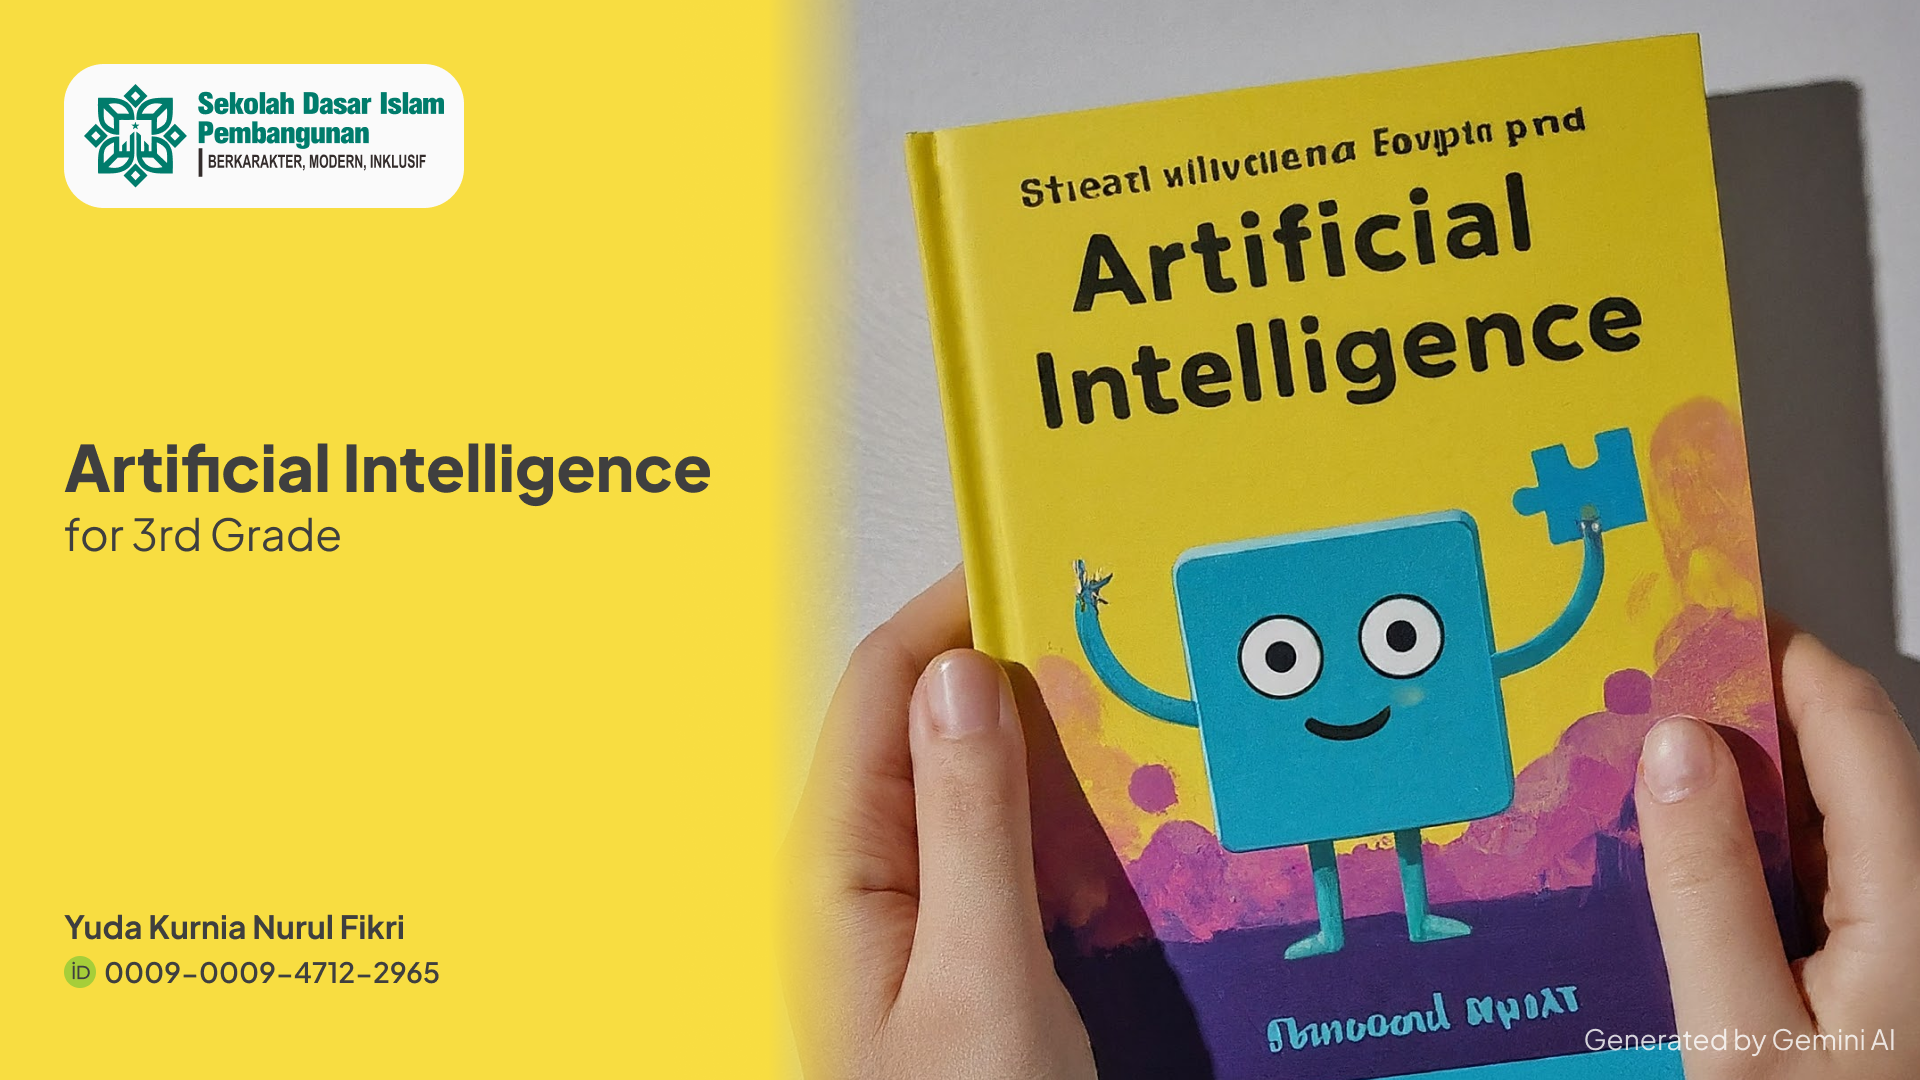
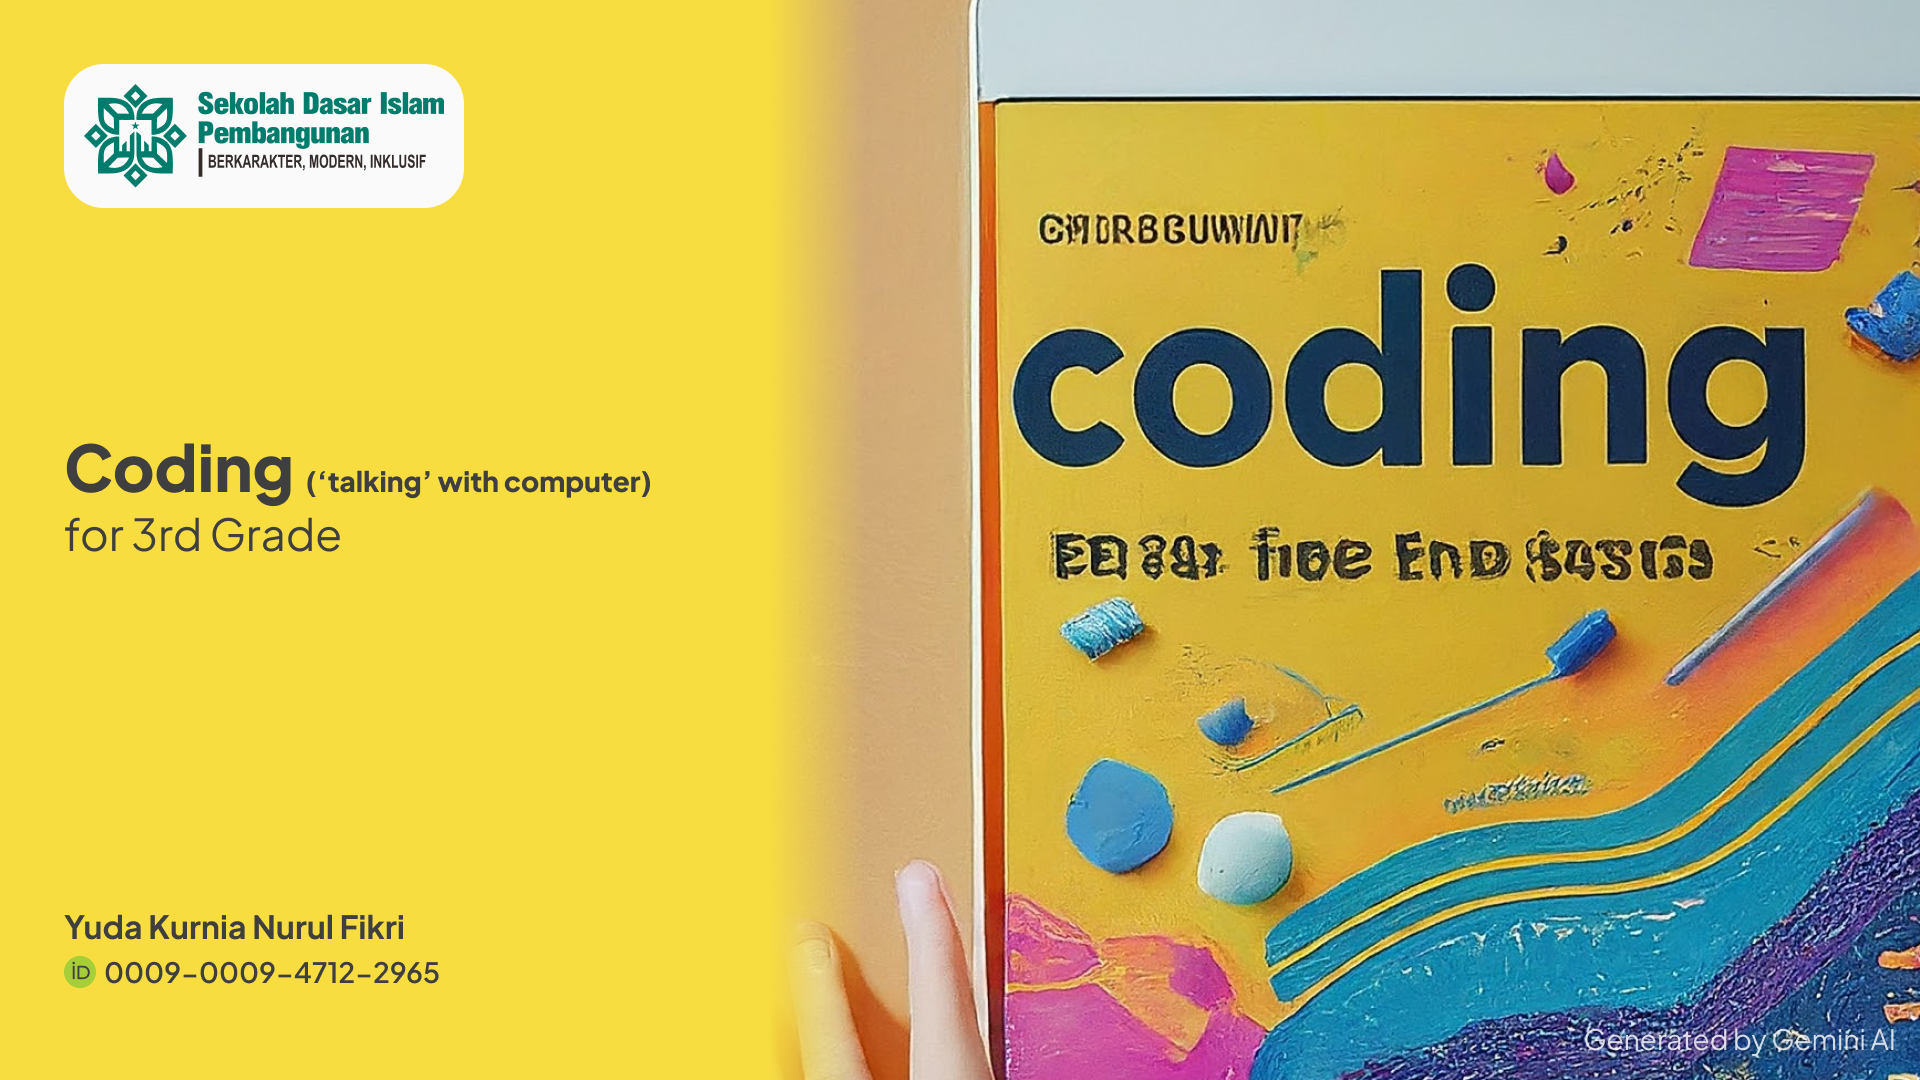
updated

diff --git a/content/01_welcome_to_coding.md b/content/01_welcome_to_coding.md
@@ -1,4 +1,9 @@
 ---
+date: 2024-07-13
+exports:
+  - format: pdf
+    template: cageo
+    output: exports/01_Welcome_To_Coding.pdf
 jupytext:
   formats: md:myst
   text_representation:
@@ -12,44 +17,29 @@ kernelspec:
   name: python3
 ---
 
-# [01] Welcome to Artificial Intelligence
-
-<!--
-Module Identity
-Module material (uraian)
-Learning Evaluation / knowledge test.
-Summary
-Extension / task assignment
-References (automatically. add at references.bib)
- -->
+# [01] Welcome to Coding!
 <!--  -->
-
-:::{note} Module Identity
-:class: dropdown
-:::
-
 Hi, we recite Basmallah together before start our session
 
 > **Bismillahirrahmanirrahim**
 
-## Getting to know to Artificial Intelligence
+## Getting to know to Coding
 ### [Introduction]
 
 Let's watch this video first:
 
-:::{iframe} https://www.youtube.com/embed/kQPC4_DsJ8I?si=Qal20dQ9D982swhW
-Let's know what is AI here
+:::{iframe} https://www.youtube.com/embed/g1J4181W8ss?si=DxjCDpYGl67qL_-x
+Let's know what is Coding here
 :::
 
 :::{hint} What we learn for this session? Click me!
 :class: dropdown
+We are going to know what is Coding really is by some approach. Either you are Grade 3, 4, or 5, we need to know this one first before deep diving into Coding subject along this academic year and the future 😊🚀
 
-We are going to know what is Artificial Intelligence by some approach. Human and AI has similarities on their Intelligence. After that we will trying to play with AI on Quick, Draw!
-
-Then we will observe Scratch application by drawing what kind of blocks there are on an F4 Paper. You may draw it with colorful coloring tools or just black and white with beautiful shadows.
+In this session we will get our hands wet by exploring Scratch app on our lovely android device. Do not tell me that you have not installed it yet, but if is not, we wait for you to install.
 :::
 
-So what is Artificial Intelligence?
+<!-- So what is Artificial Intelligence?
 
 **Artificial Intelligence** is an intelligence in form of machine that can think and learn like human does.
 
@@ -59,22 +49,33 @@ Artificial Intelligence is created for doing tasks that human are not too effici
 1. Do recognize writings even it is old Egyptian writings
 1. Controlling a drone without collapsing other objects
 1. Finding how to manage Jakarta traffic much more better
-1. and many more,
+1. and many more, -->
+
+In simple term, Coding is an activity that we do to give instructions via a specific language to the Computer. You are not misread it that Coding is also an language subject but it specifically created for telling, instruct, interacting, etc. to a Computer even many Computers at once!
+
+Along this academic year, we learn Coding by using Block Programming approach so that's why we are using Scratch 3.0 application as it uses Block Programming paradigm.
+
+Block Programming is a fun and friendly paradigm for children and also adult that we drag and drop blocks to create instruction for Computer. We will dive into it in the next part!
 
 ---
 ### [Connection]
 
-:::{tip} Do you know what other things that Artificial Intelligence do better than human? Mention it and share with your friends!
+:::{tip} Coding is literally writing an instruction to a computer. So, we will do identify some parts involved!
 :::
 
-Let's breakdown what human intelligence and Artificial Intelligence has:
-```{csv-table} Comparison on Human Intelligence and Artificial Intelligence
-:header: "Human Intelligence", "Artificial Intelligence", "Function"
-"Eye", "Computer Vision", "To see and perceive visible objects in world",
-"Brain", "AI Model", "To think what and how to reach a goal",
-"Body and Limbs", "Robot", "A physical body for Artificial Intelligence",
+Let's identify what are the parts involved in Coding!
+
+```{csv-table} Coding parts
+:header: "What", "is...", "Function"
+"The Actor", "is called Coder", "Writes a code in specific computer language for computers and other humans",
+"The Stuff", "is called Code", "Code is a bunch of text (computer instruction) written in specific programming language to be translated by computer and then the computer execute it into actionable instruction",
+"The Executor", "is called Computer", "It is an entity of living creature made by human to simplify human tasks that is done faster, repeated, complex at a time by the computer",
 ```
-And many more similarities...
+
+And yes, they are some parts that involves in Coding.
+
+:::{hint} Can you mention other parts that involved in Coding too? Tell your friends and discuss it with your Guardian or Teacher!
+:::
 
 ---
 
@@ -121,18 +122,19 @@ We will do this as our extension activity for this session
 | ⭐⭐⭐⭐⭐     | 11 kinds of object |
 :::
 
-:::{note} Knowledge Recap
-:class: dropdown
-:::
-
 ### [Reflection]
 
-:::{note} Summary
+So, what are the function of Scratch in Coding learning?
+
+:::{hint} We learn Scratch application aiming...:
 :class: dropdown
+
+1. To learn and master coding, we use Scratch as our very first step in Coding.
+1. To create a simple program to make our task easier.
+1. To build logical thinking ability so that we can solve problems in better and fluent way
 :::
 
-
-So, what are the function of Scratch in learning Artificial Intelligence?
+<!-- So, what are the function of Scratch in learning Artificial Intelligence?
 
 :::{hint} We learn Scratch program aiming...:
 :class: dropdown
@@ -140,9 +142,7 @@ So, what are the function of Scratch in learning Artificial Intelligence?
 1. To create an application, we use Scratch as our very first step in programming
 1. To create an app with Artificial Intelligence, we need to practice some thinking logic, so by block programming we will understand how computer (AI) thinks
 1. What will we get from learning Scratch in Artitifical Intelligence subject? Feel free to share with everyone!
-:::
-
-
+::: -->
 
 ---
 ### [Extension]
@@ -152,7 +152,6 @@ To be more diligent, try to explore any menus, pages, or buttons in Scratch and 
 In the next meeting, we will create a simple code to control the Scratch cat. Do explore Scratch application and you will be familiar as soon as you explore more!
 
 See ya on the next session!
-
 
 
 :::{hint} Look at me too!
@@ -168,7 +167,8 @@ https://scratch.mit.edu/studios/146521
 
 <!-- separate this into an individual page to reduce load -->
 :::{iframe} https://scratch.mit.edu/projects/1044022680/embed
-Let's know what is AI here
+Let's try some Coding can do here
+(if it says Our server is Scratching its head means that it is error. Come back again to try it later!)
 
 How to control:
 {kbd}`Up`, {kbd}`Down`, {kbd}`Left`, or {kbd}`Right`

diff --git a/intro.md b/intro.md
@@ -12,7 +12,7 @@ kernelspec:
   name: python3
 ---
 
-# Artificial Intelligence for 3rd Grade
+# Coding for 3rd Grade
 
 ```{image} _static/images/Cover_3rd Grade.png
 :alt: Cover Page
